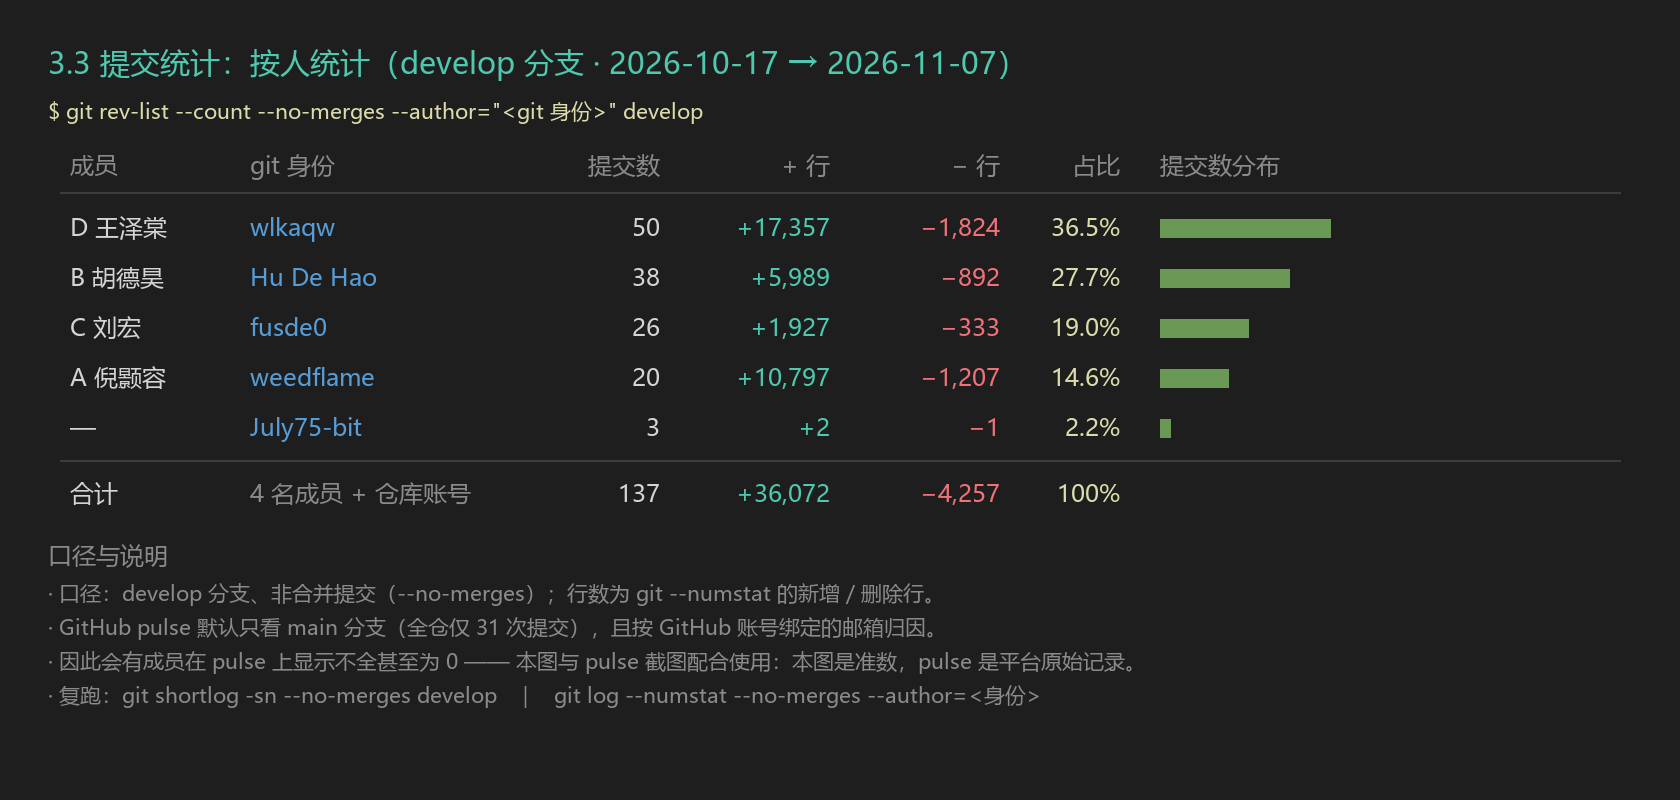
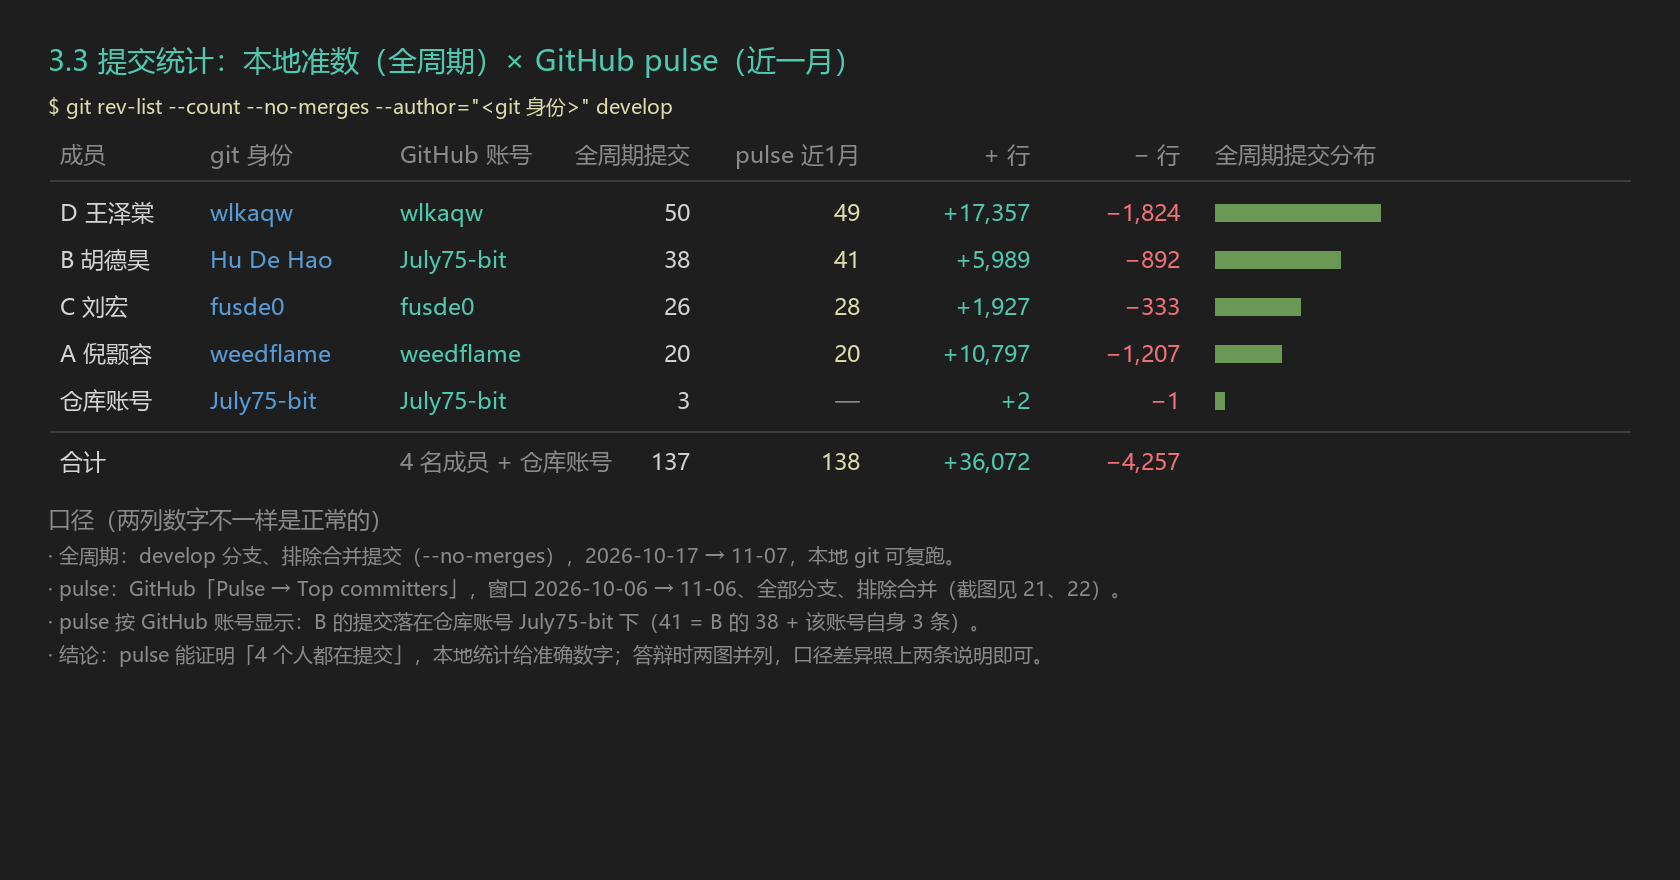
docs(report): 3.3 证据入库——pulse 两张截图 + 更正此前对 pulse 口径的误判
- 新增 evidence/21-pulse-overview.png、22-pulse-top-committers.png：实截 GitHub Pulse（1 month），4 authors / 138 commits to all branches

- 20-commit-stats.png 重做：并列本地全周期准数（137）与 pulse 近一月按账号数（49/41/28/20），并给出账号→真人对照（July75-bit = B）

- evidence-3.3-guide.md 改写：更正「pulse 会漏掉 B/C」的错误判断（那是 Insights→Contributors 的默认分支口径），补口径差异答法与 CSV 导出项

验证：截图可复现（pulse?period=monthly）；本地数字 git shortlog -sn --no-merges develop 可复核

diff --git a/docs/presentation/evidence-3.3-guide.md b/docs/presentation/evidence-3.3-guide.md
@@ -1,107 +1,82 @@
-# 3.3 提交次数截图：怎么做（照这份点）
+# 3.3 提交次数截图：怎么做（已跑通，照这份点）
 
 > **要求原文**：3.3「代码仓库链接及代码提交历史截图，**包括每个人提交的次数截图**，参考 `https://github.com/[accountname]/[reponame]/pulse`」
-> **负责**：D（截图与说明）· A/B/C（各自确认自己的 GitHub 账号邮箱，见 §4）
-> **已有产物**：`docs/acceptance/evidence/20-commit-stats.png`（真实提交统计，本地 git 可复跑）
+> **状态**：2026-11-07 已实际截图并入库（`21-pulse-overview.png`、`22-pulse-top-committers.png`），本文是复现步骤与口径说明。
 
-## 0. 先说一个必须知道的坑
+## 0. 结论先行（并更正一处误判）
 
-我们仓库的**默认分支是 `main`，只有 31 次提交**；真正的开发全在 `develop`（**137 次**）。而 GitHub 的 pulse / contributors 只统计**默认分支**，并且只按**已绑定到 GitHub 账号的邮箱**归因。
+实际截图后确认：**pulse 的 `Top committers` 是「全部分支」统计，4 个人都在**，不存在"某人消失"的问题。
 
-实测结果（2026-11-07）：
+| 来源 | 看到的东西 |
+| --- | --- |
+| `Pulse → Top committers`（全部分支，近 1 月） | wlkaqw 49 · July75-bit 41 · fusde0 28 · weedflame 20 = **138** |
+| `Insights → Contributors`（图表，只算默认分支 main） | 只有 3 个账号、合计 31 —— **这张不要用** |
+| 本地 git（develop，全周期，排除合并） | D 50 · B 38 · C 26 · A 20 + 仓库账号 3 = **137** |
 
-```
-GitHub contributors API（只看 main）：wlkaqw 18 · weedflame 8 · July75-bit 5   = 31
-本地 git（develop，非合并提交）：   D 50 · B 38 · C 26 · A 20 · 仓库账号 3      = 137
-```
+> 早期判断"B 的 38 次提交在 pulse 上会消失"来自 `Contributors` 接口（默认分支口径），**与 pulse 实际表现不符，已更正**。答辩只用 `Pulse`。
 
-也就是说：**只截 pulse 会漏掉 B 和 C，而且数字是全仓的 1/4**。答辩时被问「B 怎么只有 0 次提交」会很尴尬。
+## 1. 截图步骤（两张就够）
 
-所以证据要**三层**：pulse 原始记录 + 每人 commits 页 + 一张准数统计图。
+### 1.1 总览图
 
-## 1. 截图一：pulse（平台原始脉搏图）
+1. 打开 `https://github.com/July75-bit/Innovation/pulse`
+2. 右上角 `Period` 选 **`1 month`**（默认 1 week 太短）
+3. 确认 `Summary` 出现「**4 authors** have pushed … **138 commits to all branches**」
+4. 连地址栏一起截 → 存 `docs/acceptance/evidence/21-pulse-overview.png`
 
-1. 浏览器打开 `https://github.com/July75-bit/Innovation/pulse`
-2. 页面右上角有期间选择，选 **`1 month`**（默认可能是 1 week，会太短）
-3. 往下滚到 **`Authors`** 区块——这里就是"每个人提交次数"的原始图
-4. 截图要求：
-   - **连地址栏一起截**（证明是本仓库），窗口宽度 ≥ 1280
-   - 让 `Authors` 那一整块完整入镜，不要截半个
-   - 存为 `docs/acceptance/evidence/21-pulse.png`
+### 1.2 每人提交次数（关键的一张）
 
-> 如果页面上有 **Branch 下拉**，切到 `develop` 再截；切不了就按原样截，并在 PPT 里注明"pulse 统计默认分支 main"。
+1. 在同一个页面，看 `Top committers` 卡片（右上角有三个点 / 展开按钮）
+2. 点开后是一个弹窗，**每人一行、带具体数字**，还带 `Download CSV`
+3. 把弹窗整块截进去 → 存 `docs/acceptance/evidence/22-pulse-top-committers.png`
+4. 顺手点 **`Download CSV`**，把 CSV 也存到 `docs/acceptance/evidence/pulse-committers.csv`（比截图更硬的证据）
 
-## 2. 截图二：每个人的提交列表（补上 pulse 漏掉的人）
+> 截图规范：窗口 ≥1280 宽、**不要裁掉地址栏**、日期区间（October 6 – November 6）要入镜。
 
-按账号过滤 `develop` 的提交，URL 模板：
+## 2. 必须补一张对照表：pulse 显示的是账号名，不是真名
 
-```
-https://github.com/July75-bit/Innovation/commits/develop?author=<GitHub 登录名>
-```
+pulse 的 `July75-bit` 会让评委以为是"仓库所有者单独提交了 41 次"，其实是 **B 的提交**（该账号绑定的是 B 的邮箱 1975473007@qq.com，41 = B 的 38 条 + 该账号自身 3 条）。
 
-已知能用的两个：
+| git 提交里的名字 | GitHub 账号（pulse 显示） | 真人 | 全周期提交 |
+| --- | --- | --- | ---: |
+| `wlkaqw` | wlkaqw | D 王泽棠 | 50 |
+| `Hu De Hao` | **July75-bit**（含该账号自身 3 条） | B 胡德昊 | 38（+3） |
+| `fusde0` | fusde0 | C 刘宏 | 26 |
+| `weedflame` | weedflame | A 倪颢容 | 20 |
 
-| 人 | URL | 预期看到 |
+> 这张表已经画进 `20-commit-stats.png`，回答"账号 → 真人"的问题时直接放这张图。
+
+## 3. 口径差异怎么说（评委一定会问）
+
+| 对比项 | pulse 近 1 月 | 本地全周期 |
 | --- | --- | --- |
-| A 倪颢容 | `.../commits/develop?author=weedflame` | 20 条 |
-| D 王泽棠 | `.../commits/develop?author=wlkaqw` | 50 条 |
+| 时间窗 | 2026-10-06 → 11-06（当月） | 2026-10-17 → 11-07（项目全周期） |
+| 分支 | 全部分支 | develop |
+| 合并提交 | 排除 | 排除 |
+| 数字 | 138 | 137 |
 
-B（Hu De Hao）和 C（fusde0）**现在没有绑定账号**，过滤不出来。他们的提交在
-`https://github.com/July75-bit/Innovation/commits/develop` 里作者显示为**灰色默认头像 + 名字**
-——这一张反而要截下来，它是"归因缺失"的客观证据。
+**一句话答法**：「pulse 是 GitHub 按月给的口径，我们是 6 天冲刺、全周期在 develop 上；两张图口径不同所以数字不完全一样，差 1 条是 11-07 当天的提交还没进 pulse 的窗口。」
 
-截图命名：`22-commits-A.png` / `22-commits-D.png` / `22-commits-unlinked.png`，同样连地址栏。
+另外 pulse 里写着 `On main, 0 files have changed / 0 additions / 0 deletions` —— 别慌，这是**对的**：
+我们 `main` 是发布分支，只接受从 `develop` 合并（PR #3），没有直接提交；所有开发都在 `develop`。
 
-## 3. 截图三：准数统计图（已生成）
-
-`docs/acceptance/evidence/20-commit-stats.png` —— 直接从 `develop` 算的准数：
-
-| 成员 | git 身份 | 提交 | + 行 | − 行 | 占比 |
-| --- | --- | ---: | ---: | ---: | ---: |
-| D 王泽棠 | `wlkaqw` | 50 | +17,357 | −1,824 | 36.5% |
-| B 胡德昊 | `Hu De Hao` | 38 | +5,989 | −892 | 27.7% |
-| C 刘宏 | `fusde0` | 26 | +1,927 | −333 | 19.0% |
-| A 倪颢容 | `weedflame` | 20 | +10,797 | −1,207 | 14.6% |
-| 仓库账号 | `July75-bit` | 3 | +2 | −1 | 2.2% |
-| **合计** | — | **137** | **+36,072** | **−4,257** | 100% |
-
-复跑命令（任何人可验）：
-
-```powershell
-cd D:\projects\innovation\Innovation
-git shortlog -sn --no-merges develop
-git log --numstat --no-merges --author="Hu De Hao" develop
-```
-
-> 这张图的价值：pulse 是"平台怎么看我们的仓库"，这张是"仓库真实发生了什么"。两者一起交，才既满足要求又不失实。
-
-## 4. 让以后的提交被正确归因（每人 2 分钟，只影响新提交）
-
-**为什么要改**：提交里记的是 `user.email`，GitHub 用它把提交算到某个账号头上。没绑定的邮箱 → 这个人在 pulse / contributors 上直接消失（我们已经有 2 个人属于这种情况）。
-
-每人在**自己电脑的仓库目录**执行（把邮箱换成自己 GitHub 账号的主邮箱）：
+## 4. 让归因以后更清楚（可选，2 分钟/人）
 
 ```powershell
 cd D:\projects\innovation\Innovation
 git config user.name  "你的名字"
-git config user.email "你的GitHub邮箱"
-git config --get user.email        # 回显确认
+git config user.email "你的GitHub邮箱"   # 用 https://github.com/settings/emails 里已验证的那个
+git config --get user.email            # 回显确认
 ```
 
-不知道用哪个邮箱：打开 `https://github.com/settings/emails`，用里面**已验证（Verified）**的那个。
-不想暴露真实邮箱，用 GitHub 提供的 noreply 地址也行（在同一个页面能看到，形如 `12345678+login@users.noreply.github.com`）。
+- 只影响**以后**的提交；历史提交的作者邮箱写死在 commit 里，改不了（也不该为它重写历史）。
+- 我们现在的实际情况并不难看：4 个人在 pulse 上都有数字，只是账号名需要一次对照。
 
-**注意**：
+## 5. 交付清单
 
-- 这个改动**不会**追溯修改历史提交（历史提交的作者邮箱是写死在 commit 里的，改不了，除非重写历史——我们不做）；
-- 所以"旧提交归因缺失"是既定事实，答辩时按 §3 的方式说明即可，不要试图掩盖；
-- 改完之后每个人的**新**提交才会被 pulse 正确统计。
-
-## 5. 交付清单（做完打勾）
-
-- [ ] `21-pulse.png`：pulse 页，期间 1 month，含 Authors 区块与地址栏
-- [ ] `22-commits-A.png` / `22-commits-D.png`：按账号过滤的 develop 提交列表
-- [ ] `22-commits-unlinked.png`：develop 提交列表里 B/C 的灰色头像（归因缺失证据）
-- [ ] `20-commit-stats.png`：已生成，无需再截
+- [x] `21-pulse-overview.png`：pulse 总览，1 month，含 `4 authors / 138 commits to all branches`
+- [x] `22-pulse-top-committers.png`：Top committers 弹窗，每人具体次数
+- [x] `20-commit-stats.png`：本地准数 + 账号对照 + 双口径说明
+- [ ] `pulse-committers.csv`：弹窗里的 `Download CSV`（导出后放同目录）
 - [ ] `docs/acceptance/evidence/README.md` 索引补这 4 行
-- [ ] 每人执行完 §4 并把 `git config --get user.email` 的回显发群里
+- [ ] 确认 §2 对照表里"账号 → 真人"的映射无误（B = July75-bit 需 B 本人确认）

diff --git a/docs/acceptance/evidence/README.md b/docs/acceptance/evidence/README.md
@@ -67,7 +67,9 @@
 | --- | --- | --- |
 | `18-quality-pylint-pep8.png` | Pylint 语义分析 + PEP8 + 格式化体检 | Pylint 9.74/10（无 E/F 级）；`ruff check --select E,W` 25 项全为 E501；`ruff format --check` 31 待格式化 / 39 已格式化 |
 | `19-complexity-stats.png` | 认知复杂度 + 代码统计（3.7） | complexipy 48 文件 / 149 函数，最大 27、均值 3.31；Python 70 文件 8342 行、Vue 10 / 1737、TS 12 / 852、MD 41 / 6489，合计 133 文件 / 17420 行 |
-| `20-commit-stats.png` | 3.3 提交统计（准数，本地 git 生成） | develop 分支非合并提交 137 次：D 50 / B 38 / C 26 / A 20 / 仓库账号 3；合计 +36072 / −4257 |
+| `20-commit-stats.png` | 3.3 提交统计：本地准数 × pulse 按账号数 | 全周期（develop，排除合并）137 次：D 50 / B 38 / C 26 / A 20 / 仓库账号 3，合计 +36072 / −4257；并给出 pulse 近一月按账号的 49 / 41 / 28 / 20 与"账号→真人"对照 |
+| `21-pulse-overview.png` | GitHub Pulse 总览（2026-10-06 → 11-06，1 month） | `4 authors have pushed … 138 commits to all branches`；`On main, 0 files changed`（main 只走 PR 合并，非异常） |
+| `22-pulse-top-committers.png` | Pulse → Top committers 弹窗 | wlkaqw 49 · July75-bit 41 · fusde0 28 · weedflame 20 = 138；`July75-bit` 为 B 的账号（41 = B 的 38 + 账号自身 3） |
 
-> 3.3 的网页截图（`21-pulse.png`、`22-commits-*.png`）待补，操作步骤见 `docs/presentation/evidence-3.3-guide.md`。
-> 说明：GitHub pulse 只统计默认分支 `main`（31 次）且按账号邮箱归因，因此与本地准数存在差异，两者需配合使用。
+> 3.3 的复现步骤与口径说明见 `docs/presentation/evidence-3.3-guide.md`。
+> 口径提示：pulse 是"近一月 + 全部分支"，本地是"全周期 + develop"，两列数字不必强行对齐；`Insights → Contributors` 只算默认分支 `main`（31 次、3 个账号），**不作为证据使用**。
